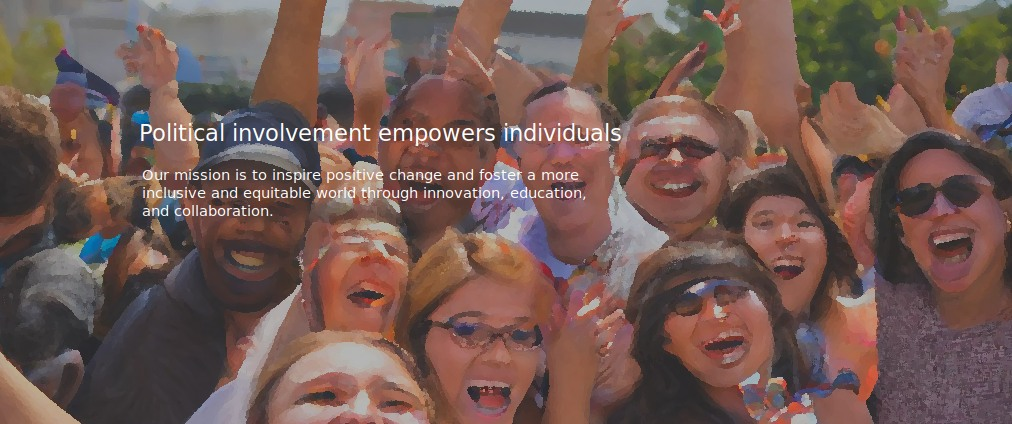
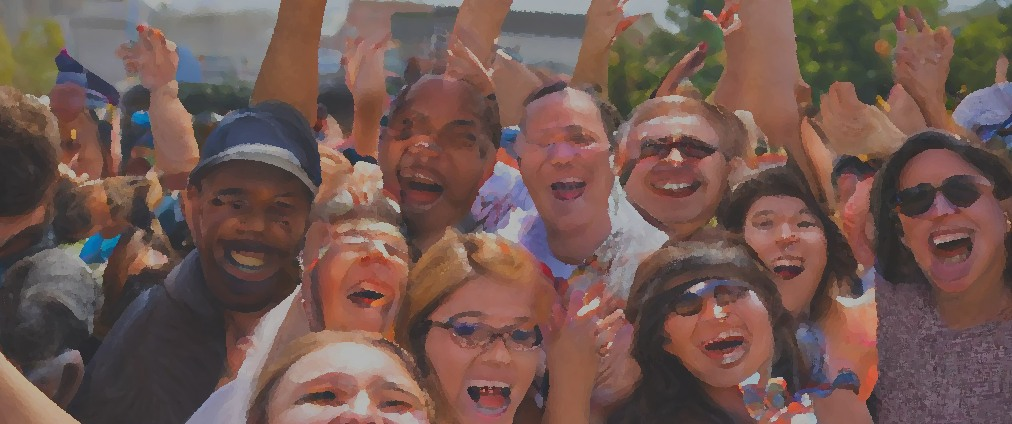
update

Changed region(s): [[0.1225, 0.3986, 0.582, 0.5212], [0.1225, 0.2759, 0.6126, 0.3373]]

diff --git a/call4change/call4change.html b/call4change/call4change.html
@@ -1,35 +1,16 @@
-<!DOCTYPE html>
 <html>
 <head>
-  <title>Web Page with Image Animation</title>
-  <link rel="stylesheet" href="https://cdnjs.cloudflare.com/ajax/libs/animate.css/4.0.0/animate.min.css">
-  <style>
-    .my-element {
-      animation: backInDown 2s;
-      display: flex;
-      justify-content: center;
-    }
-    .my-element img {
-      width: 100vw;
-    }
-    @keyframes backInDown {
-      0% {
-        opacity: 0;
-        transform: translateY(-20px);
-      }
-      60% {
-        opacity: 1;
-        transform: translateY(3px);
-      }
-      100% {
-        transform: translateY(0);
-      }
-    }
-  </style>
+<title>Image Resizing for Mobile</title>
+<style>
+@media (max-width: 400px) {
+  img {
+    width: 100%;
+    height: auto;
+  }
+}
+</style>
 </head>
 <body>
-  <div class="my-element">
-    <img src="selfie.jpg" alt="My image">
-  </div>
+<img src="selfie.jpg" alt="Image">
 </body>
 </html>
